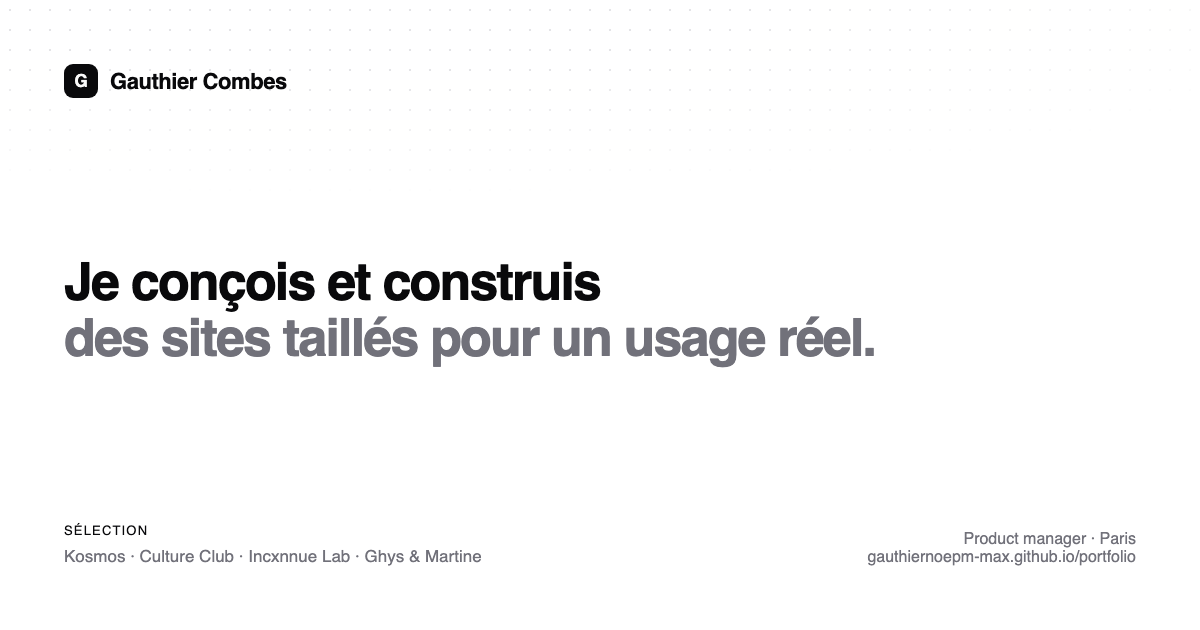
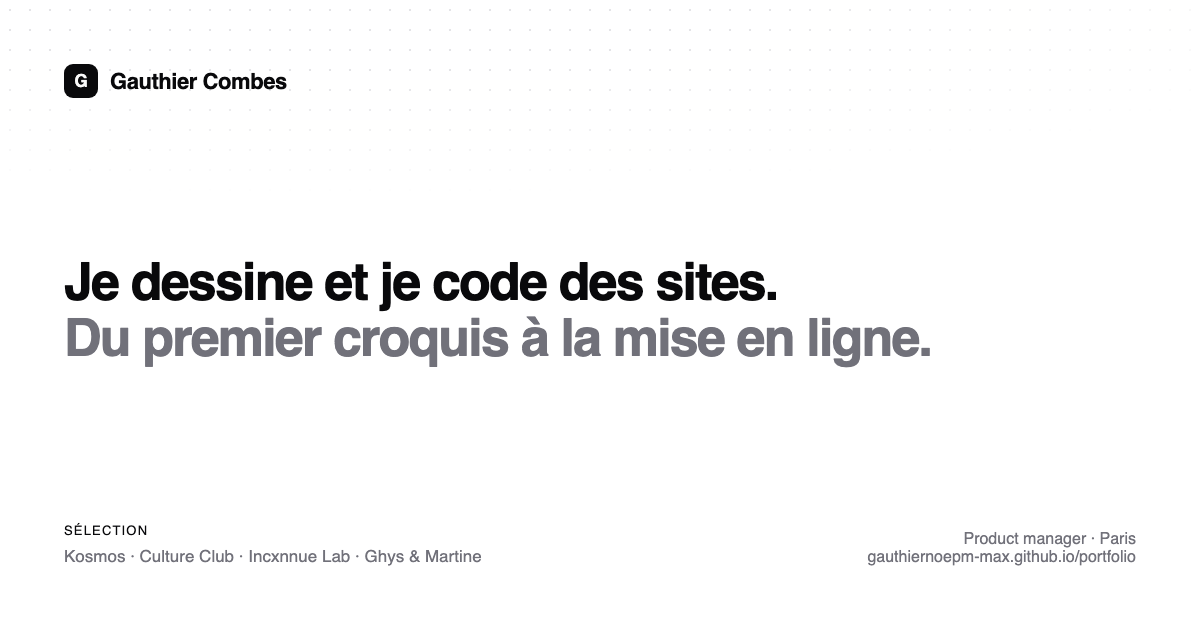
Hero: plainer, friendlier copy — no more agency speak

Changed region(s): [[0.0308, 0.3921, 0.7708, 0.6032]]

diff --git a/src/data/site.ts b/src/data/site.ts
@@ -15,11 +15,11 @@ export const ui = {
     langSwitchHref: '/en/',
     nav: { work: 'Projets', about: 'À propos', contact: 'Contact' },
     badge: 'Disponible pour missions — 2026',
-    title: 'Gauthier Combes — sites conçus et construits de bout en bout',
+    title: 'Gauthier Combes — je dessine et je code des sites',
     description:
-      'Product manager le jour, je conçois, designe et développe des sites complets : boutiques, produits avec comptes et paiement, sites vitrines.',
-    h1: ['Je conçois et construis des sites', 'taillés pour un usage réel.'],
-    sub: 'Je livre seul ce qui demande normalement une équipe : cadrage, design, développement et mise en ligne.',
+      'Boutiques, sites d’ateliers, produits avec comptes et paiement — pour des marques et des amis. Cadrage, design, code et mise en ligne : une seule personne à chaque étape.',
+    h1: ['Je dessine et je code des sites.', 'Du premier croquis à la mise en ligne.'],
+    sub: 'Boutiques, sites d’ateliers, produits avec comptes et paiement — pour des marques et des amis. Cadrage, design, code, mise en ligne : une seule personne à chaque étape.',
     ctaPrimary: 'Réserver un créneau',
     workEyebrow: 'Sélection',
     workCount: '4 projets',
@@ -49,11 +49,11 @@ export const ui = {
     langSwitchHref: '/fr/',
     nav: { work: 'Work', about: 'About', contact: 'Contact' },
     badge: 'Available for work — 2026',
-    title: 'Gauthier Combes — websites designed and built end to end',
+    title: 'Gauthier Combes — I design and code websites',
     description:
-      'Product manager by day, I design and build complete websites: shops, products with accounts and payments, marketing sites.',
-    h1: ['I design and build websites', 'made for real use.'],
-    sub: 'I ship alone what usually takes a team: scoping, design, development and launch.',
+      'Shops, workshop sites, products with accounts and payments — for brands and friends. Scoping, design, code and launch: one person at every step.',
+    h1: ['I design and code websites.', 'From first sketch to launch.'],
+    sub: 'Shops, workshop sites, products with accounts and payments — for brands and friends. Scoping, design, code, launch: one person at every step.',
     ctaPrimary: 'Book a call',
     workEyebrow: 'Selected work',
     workCount: '4 projects',
